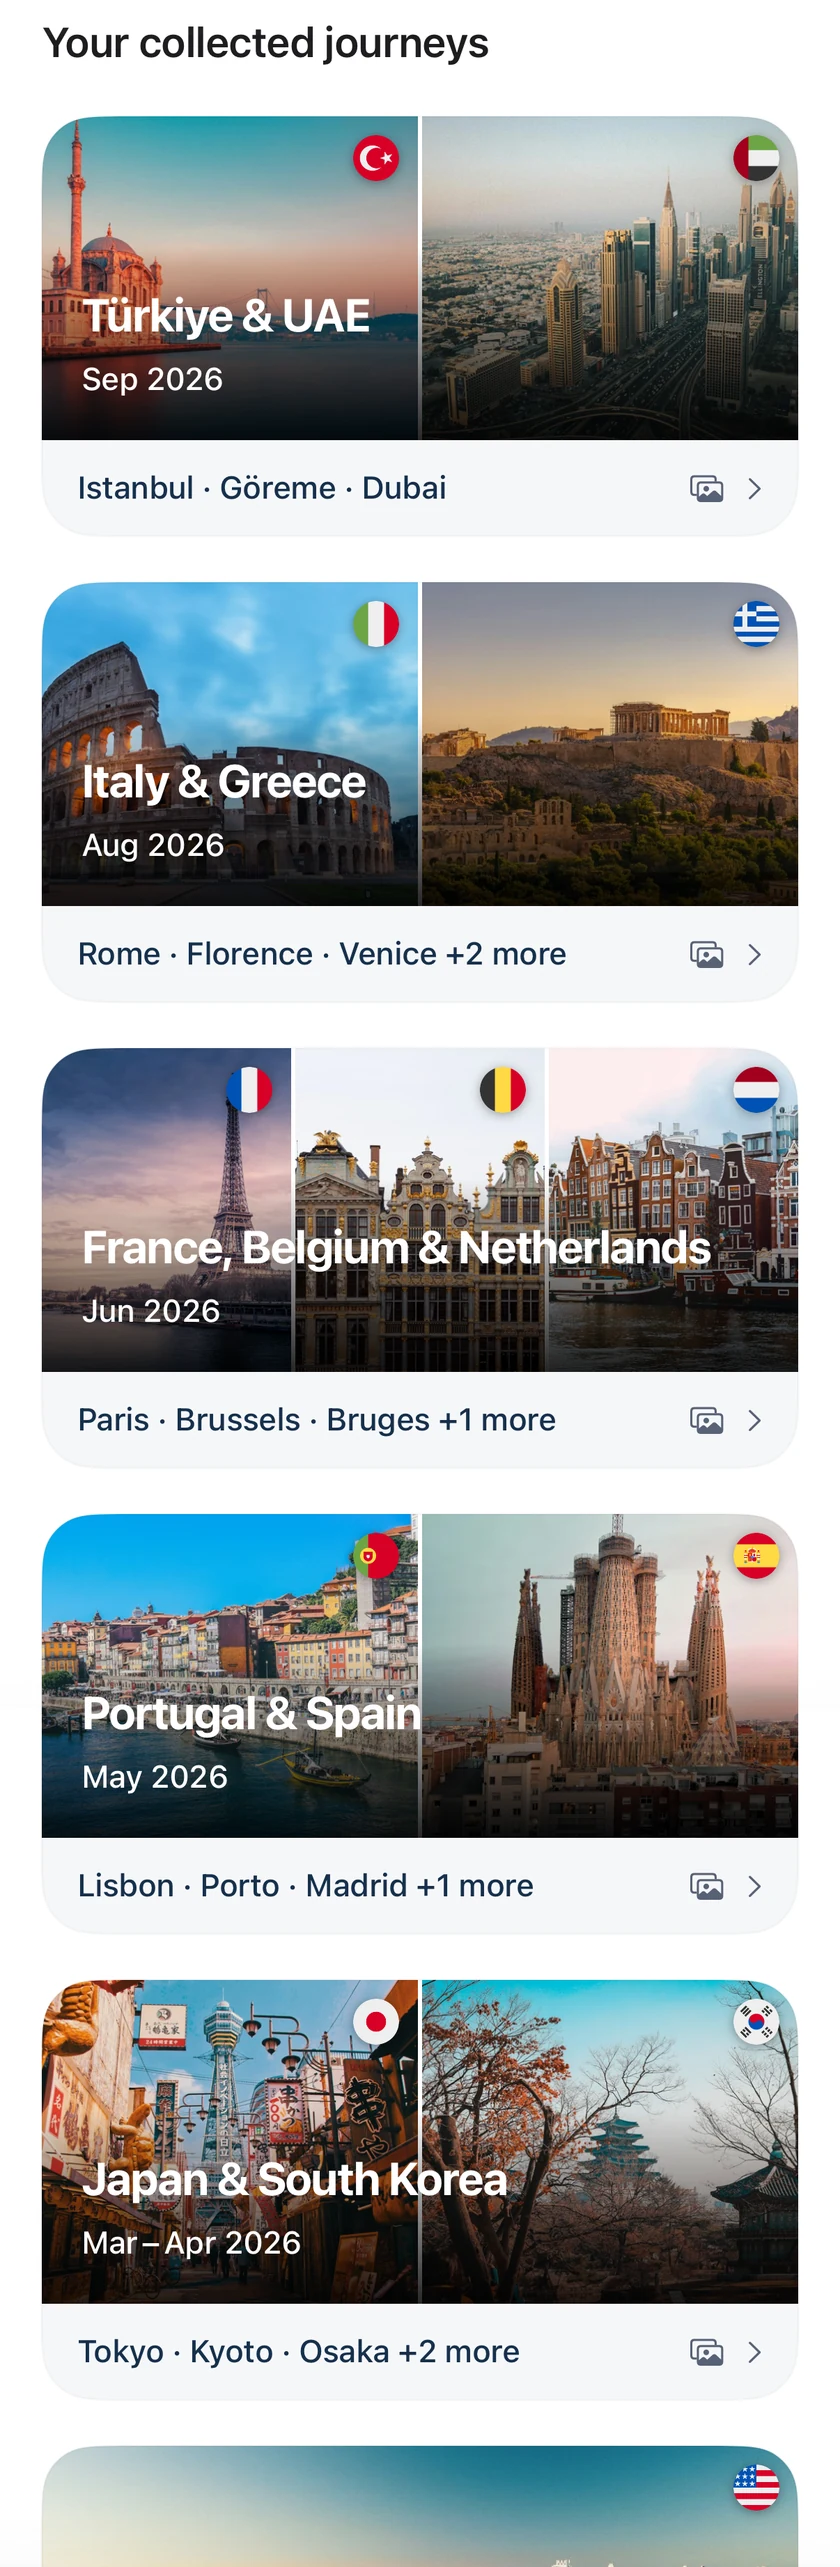
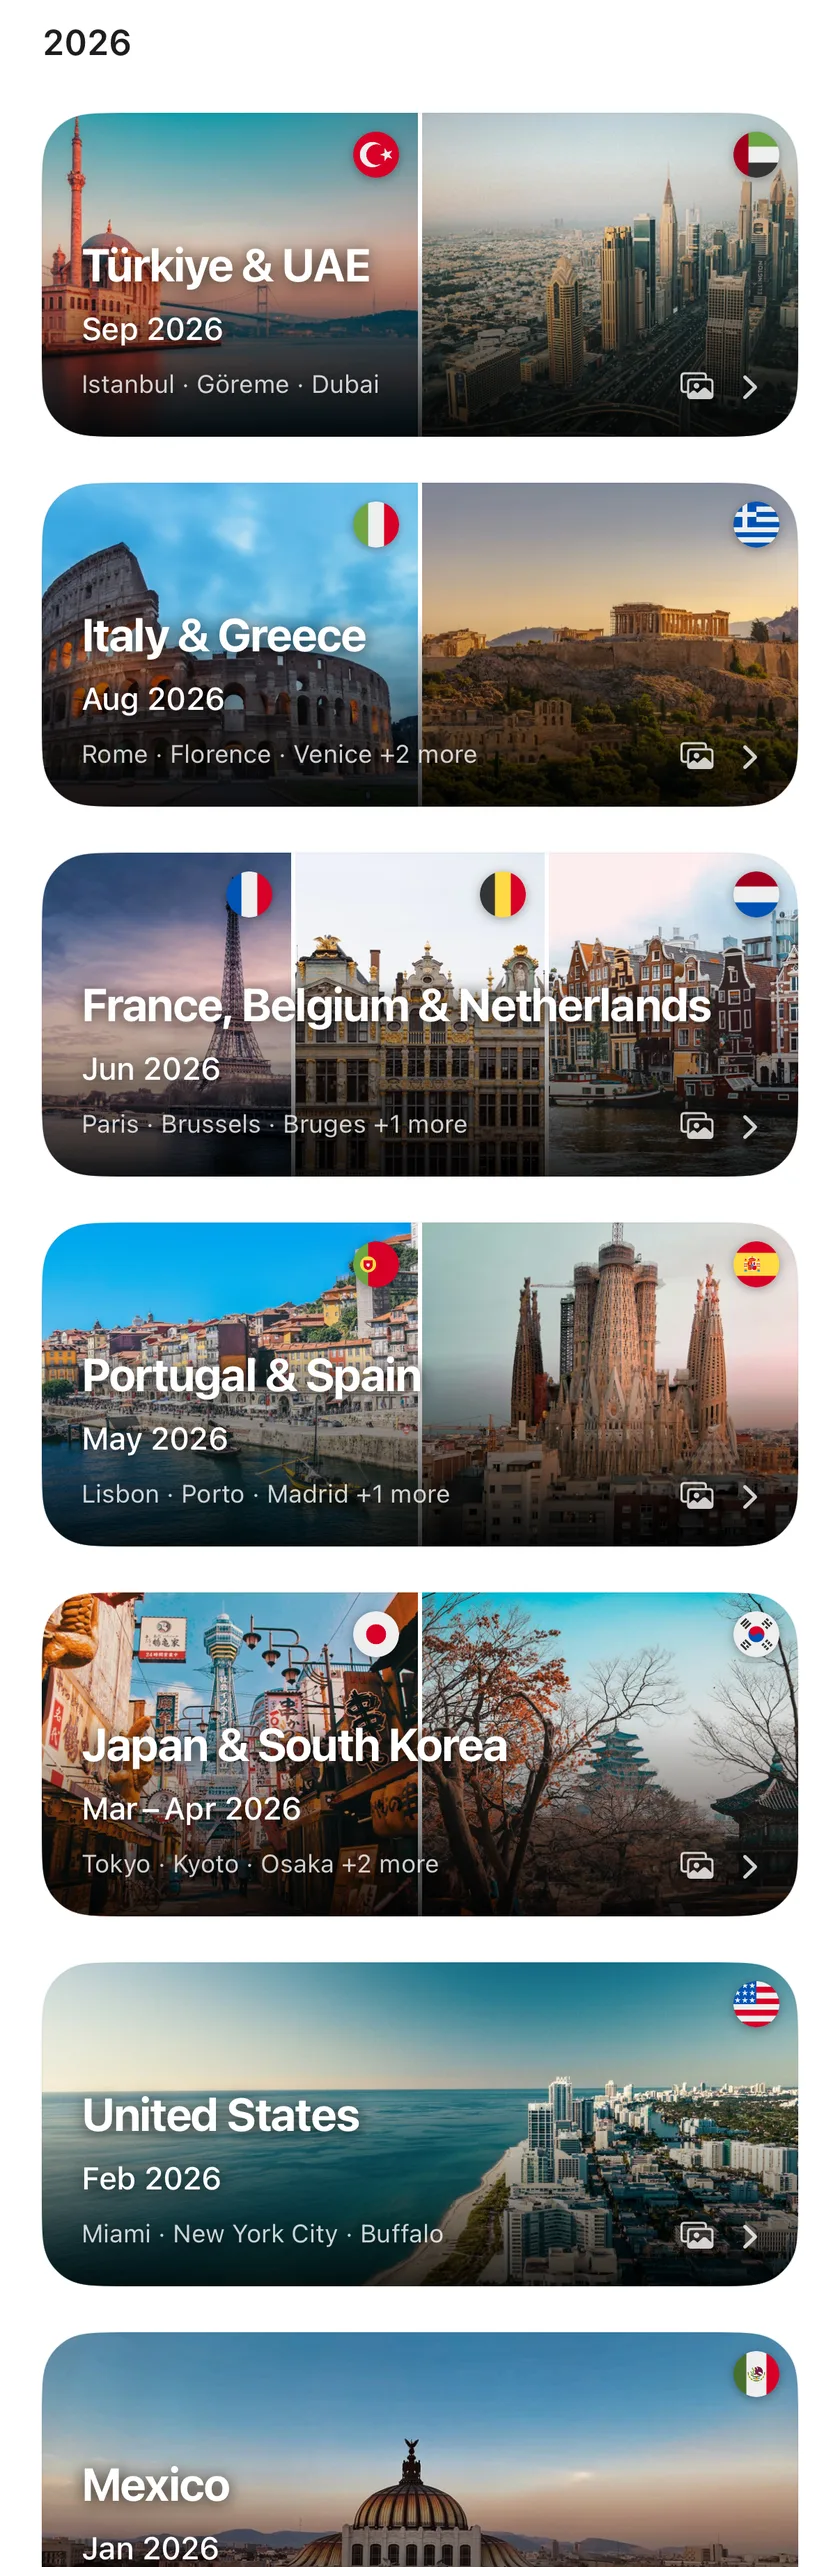
Website: current Journeys pictures and tab bar, Excel itinerary in place of the travel PDF
Published from Website/ at atlased commit 4eab962.

- Phone pictures show the app as it is now, with a tab bar of
  Journeys, Atlas and Recap and the separate search button.
- The home, support and privacy pages describe the Excel itinerary
  instead of the travel PDF.
- Support gains answers on someone else's flights and the Wishlist.
- The privacy page lists the traveler name for someone else's flight.

diff --git a/index.html b/index.html
@@ -19,7 +19,7 @@
   <script>if(!matchMedia("(prefers-reduced-motion: reduce)").matches)document.documentElement.classList.add("js")</script>
   <meta name="apple-itunes-app" content="app-id=6831164710">
   <link rel="stylesheet" href="assets/site.css?v=72">
-  <link rel="stylesheet" href="assets/phone.css?v=60">
+  <link rel="stylesheet" href="assets/phone.css?v=61">
 </head>
 <body>
   <header class="nav">
@@ -57,7 +57,7 @@
         </div>
         <div class="hero-phone" id="heroPhone">
           <div class="iphone"><i class="b1"></i><i class="b2"></i><i class="b3"></i><i class="b4"></i>
-            <div class="bezel"><div class="screen"><div class="reel reel-list" style="--reel-to:-60.016%"><div class="reel-view"><img class="reel-img" src="assets/reel/journeys-a.webp?v=2" alt="Atlased showing journeys it found from photos" width="840" height="3799" decoding="async"></div><img class="reel-head" src="assets/reel/journeys-head.png?v=3" alt="" width="840" height="315"><span class="reel-fade"></span><span class="reel-glass"></span><img class="reel-tab" src="assets/reel/tabbar.png?v=1" alt="" width="631" height="181"></div><span class="island"></span></div></div>
+            <div class="bezel"><div class="screen"><div class="reel reel-list" style="--reel-to:-60.016%"><div class="reel-view"><img class="reel-img" src="assets/reel/journeys-a.webp?v=3" alt="Atlased showing journeys it found from photos" width="840" height="3799" decoding="async"></div><img class="reel-head" src="assets/reel/journeys-head.png?v=4" alt="" width="840" height="315"><span class="reel-fade"></span><span class="reel-glass"></span><span class="reel-glass reel-search"></span><img class="reel-tab" src="assets/reel/tabbar.png?v=2" alt="" width="753" height="130"></div><span class="island"></span></div></div>
           </div>
         </div>
       </div>
@@ -78,7 +78,7 @@
       <div class="wrap story-grid">
         <div class="story-steps">
           <div class="step" data-step="0">
-            <div class="mstage" data-step="0" aria-hidden="true"><span class="tint c-orange on"></span><span class="dots"></span><div class="mphone iphone"><i class="b1"></i><i class="b2"></i><i class="b3"></i><i class="b4"></i><div class="bezel"><div class="screen"><div class="reel reel-list" style="--reel-to:-40.826%"><div class="reel-view"><img class="reel-img" src="assets/reel/journeys-b.webp?v=2" alt="" width="840" height="2567" decoding="async"></div><img class="reel-head" src="assets/reel/journeys-head.png?v=3" alt="" width="840" height="315"><span class="reel-fade"></span><span class="reel-glass"></span><img class="reel-tab" src="assets/reel/tabbar.png?v=1" alt="" width="631" height="181"></div><span class="island"></span></div></div></div></div>
+            <div class="mstage" data-step="0" aria-hidden="true"><span class="tint c-orange on"></span><span class="dots"></span><div class="mphone iphone"><i class="b1"></i><i class="b2"></i><i class="b3"></i><i class="b4"></i><div class="bezel"><div class="screen"><div class="reel reel-list" style="--reel-to:-40.826%"><div class="reel-view"><img class="reel-img" src="assets/reel/journeys-b.webp?v=3" alt="" width="840" height="2567" decoding="async"></div><img class="reel-head" src="assets/reel/journeys-head.png?v=4" alt="" width="840" height="315"><span class="reel-fade"></span><span class="reel-glass"></span><span class="reel-glass reel-search"></span><img class="reel-tab" src="assets/reel/tabbar.png?v=2" alt="" width="753" height="130"></div><span class="island"></span></div></div></div></div>
             <div class="inner">
               <div class="num c-orange">1</div>
               <h3>Tap once. <span class="serif t-orange">Watch</span> your trips appear.</h3>
@@ -110,7 +110,7 @@
             <span class="tint c-orange on"></span><span class="tint c-teal"></span><span class="tint c-sky"></span><span class="dots"></span>
             <div class="iphone"><i class="b1"></i><i class="b2"></i><i class="b3"></i><i class="b4"></i>
               <div class="bezel"><div class="screen">
-                <div class="reel reel-list sv on" data-step="0" style="--reel-to:-40.826%"><div class="reel-view"><img class="reel-img" src="assets/reel/journeys-b.webp?v=2" alt="" width="840" height="2567" decoding="async"></div><img class="reel-head" src="assets/reel/journeys-head.png?v=3" alt="" width="840" height="315"><span class="reel-fade"></span><span class="reel-glass"></span><img class="reel-tab" src="assets/reel/tabbar.png?v=1" alt="" width="631" height="181"></div>
+                <div class="reel reel-list sv on" data-step="0" style="--reel-to:-40.826%"><div class="reel-view"><img class="reel-img" src="assets/reel/journeys-b.webp?v=3" alt="" width="840" height="2567" decoding="async"></div><img class="reel-head" src="assets/reel/journeys-head.png?v=4" alt="" width="840" height="315"><span class="reel-fade"></span><span class="reel-glass"></span><span class="reel-glass reel-search"></span><img class="reel-tab" src="assets/reel/tabbar.png?v=2" alt="" width="753" height="130"></div>
                 <div class="reel reel-sheet sv" data-step="1" style="--reel-to:-30.966%"><div class="reel-view"><img class="reel-img" src="assets/reel/journey.webp?v=3" alt="" width="840" height="2154" decoding="async"></div><img class="reel-head" src="assets/reel/journey-head.png?v=2" alt="" width="840" height="276"></div>
                 <img class="sv" data-step="2" src="assets/img/atlas.jpg?v=5" alt=""><video class="vid sv" data-step="2" src="assets/video/atlas.mp4?v=3" poster="assets/img/atlas.jpg?v=5" muted loop playsinline preload="none" disablepictureinpicture disableremoteplayback aria-hidden="true"></video>
                 <span class="island"></span>
@@ -195,7 +195,7 @@
             <li><span class="dotc" style="background:var(--teal)"></span><span><b>Every flag</b> you collected</span></li>
             <li><span class="dotc" style="background:var(--sky)"></span><span><b>Miles flown</b> and days away</span></li>
             <li><span class="dotc" style="background:var(--violet)"></span><span>Notes and journey names <b>stay private</b></span></li>
-            <li><span class="dotc" style="background:var(--teal)"></span><span><b>Travel PDF</b> with route maps, itineraries and photos you choose <span class="pro">Pro</span></span></li>
+            <li><span class="dotc" style="background:var(--teal)"></span><span><b>Excel itinerary</b> with visit dates, hotel stays and flights <span class="pro">Pro</span></span></li>
           </ul>
         </div>
         <div class="wrap-card">

diff --git a/privacy/index.html b/privacy/index.html
@@ -32,7 +32,7 @@
       <p><strong>In short:</strong> Atlased has no account, no developer server, no advertising and no analytics. Your journal stays on your iPhone. Photo images and calendar contents are never uploaded to a developer server. To find missing place names, Atlased sends Apple only photo coordinates outside your home areas. This is on by default, and you can turn it off in Build your journal → Photos. Sharing your journal is always your choice.</p>
 
       <h2>Your travel journal</h2>
-      <p>Atlased is an iPhone travel journal. It stores the countries, cities, journeys, travel dates, notes, wishlist entries, flight records and cover photos you keep. You don't need an Atlased account. The app has no developer-operated backend, advertising, analytics SDK, friends service or app-managed cloud sync.</p>
+      <p>Atlased is an iPhone travel journal. It stores the countries, cities, journeys, travel dates, notes, wishlist entries, flight records and cover photos you keep, and the traveler name you add to a flight that was someone else's. You don't need an Atlased account. The app has no developer-operated backend, advertising, analytics SDK, friends service or app-managed cloud sync.</p>
       <p>Journal records are stored in the app's own storage on your iPhone and are never uploaded to a developer server. Files in the app's storage, including chosen covers, may be included in your iPhone's own backups according to your device settings.</p>
       <p>Atlased keeps automatic backups of your journeys, places and flights in the same local storage, along with a log of counts and times (never places or names) so you can see what changed. They stay on your iPhone, are never sent to the developer, and can be restored or deleted in Settings → Journal health. Deleting the app deletes them.</p>
       <p>If iOS reports a crash or a freeze, Atlased keeps that report on your iPhone. It contains technical details and no journal content, and it leaves your device only if you choose to share a diagnostic report from Journal health.</p>
@@ -65,7 +65,7 @@
         <li>Shared photos are temporary copies with their location removed (videos are shared as they are); the copies are deleted afterwards.</li>
         <li>“Make an album in Photos” adds the chosen photos to an album named after the journey. It's the only time Atlased changes your library, and it needs full Photos access.</li>
         <li>Year wraps leave out notes, journey titles and individual travel dates.</li>
-        <li>Travel PDFs can include route maps, journey dates, visited places, completed flights and the photos you choose. Private notes and original calendar and photo identifiers stay out. You can preview the PDF before sharing.</li>
+        <li>Excel itineraries list each trip's places, visit dates, hotel stays and linked flights, and journey titles unless you leave them out. Private notes and original calendar and photo identifiers stay out.</li>
         <li>JSON backups are more detailed than shared pictures and can include notes, coordinates and calendar details. Keep them private. Home locations are never included.</li>
       </ul>
 

diff --git a/support/index.html b/support/index.html
@@ -47,6 +47,14 @@
           <p>On Journeys, tap “Add from calendar”, or open Build your journal → Calendar. Atlased reads flight and hotel events from the calendars you choose, including Google calendars added to your iPhone, and links them to your trips. If a flight looks wrong, open the journey and tap Edit.</p>
         </details>
         <details>
+          <summary>A flight in my journal was someone else's.</summary>
+          <p>Open the journey and tap “Not my flight” under Flights. Choose the flights, add the traveler's name if you like, then tap Review changes and Move to Others. Those flights leave your travel totals and stay in your flight journal under Others. To bring one back, open Recap → View flight journal → Others, tap the flight and choose “Mark as mine”.</p>
+        </details>
+        <details>
+          <summary>Where is my wishlist?</summary>
+          <p>Open Atlas and tap the bookmark button at the top right. Tap the plus button there to find a place to save.</p>
+        </details>
+        <details>
           <summary>Is my journal backed up?</summary>
           <p>Atlased keeps automatic backups on your iPhone, which you can see and restore in Settings → Journal health. Your iPhone's own backup can include your journal too. You can also export a backup file from Settings.</p>
         </details>
@@ -55,8 +63,8 @@
           <p>Pro belongs to your Apple Account. To restore it, open Settings in Atlased, tap Atlased Pro, then Restore purchases. To change or cancel a subscription, go to iPhone Settings → your name → Subscriptions.</p>
         </details>
         <details>
-          <summary>How do I share a travel PDF?</summary>
-          <p>With Atlased Pro, open Settings → Travel reports and choose a year. Use “Choose report photos” to add up to eight photos. Tap “Preview PDF report” to check the maps, itineraries and any completed flights, then use Share to send the PDF or save it to Files.</p>
+          <summary>How do I export my itinerary to Excel?</summary>
+          <p>With Atlased Pro, open Settings → Travel reports and choose a year or All time. Tap “Export Excel itinerary”, then share the file or save it to Files. The spreadsheet lists each trip's places, visit dates, hotel stays and flights. Notes stay in your journal. To leave journey titles out, open the options menu and turn off “Include journey titles”.</p>
         </details>
         <details>
           <summary>How do I see trip anniversary notifications on my Lock Screen?</summary>

diff --git a/assets/phone.css b/assets/phone.css
@@ -96,9 +96,11 @@
 .iphone .screen .reel-head { inset: 0 0 auto 0; height: auto; object-fit: fill; z-index: 1; }
 .reel-fade { position: absolute; z-index: 1; left: 0; right: 0; bottom: 0; height: 15%; pointer-events: none;
   background: linear-gradient(180deg, rgba(255,255,255,0) 0%, rgba(255,255,255,.085) 20%, rgba(255,255,255,.2) 31%, rgba(255,255,255,.45) 46%, rgba(255,255,255,.72) 66%, rgba(255,255,255,.86) 100%); }
-.reel-glass { position: absolute; z-index: 1; left: 15.92%; width: 68.33%; top: 90.62%; height: 6.865%; border-radius: 999px; pointer-events: none;
+.reel-glass { position: absolute; z-index: 1; left: 5.224%; width: 72.139%; top: 90.503%; height: 7.094%; border-radius: 999px; pointer-events: none;
   background: rgba(255,255,255,.3); -webkit-backdrop-filter: blur(8px) saturate(160%); backdrop-filter: blur(8px) saturate(160%); box-shadow: 0 4px 14px rgba(0,0,0,.1); }
-.iphone .screen .reel-tab { inset: auto; left: 12.438%; top: 89.245%; width: 75.124%; height: auto; object-fit: fill; z-index: 2; }
+/* The search button is its own glass circle beside the tab bar. */
+.reel-glass.reel-search { left: 79.353%; width: 15.423%; }
+.iphone .screen .reel-tab { inset: auto; left: 5.224%; top: 90.503%; width: 89.635%; height: auto; object-fit: fill; z-index: 2; }
 /* A soft edge where the list slides under the app's header. */
 .reel-list::after { content: ""; position: absolute; z-index: 1; left: 0; right: 0; top: 17.2%; height: 2.4%; pointer-events: none; background: linear-gradient(180deg, #fff, rgba(255,255,255,0)); }
 @keyframes reel { from { transform: translate3d(0, 0, 0); } to { transform: translate3d(0, var(--reel-to, -50%), 0); } }
